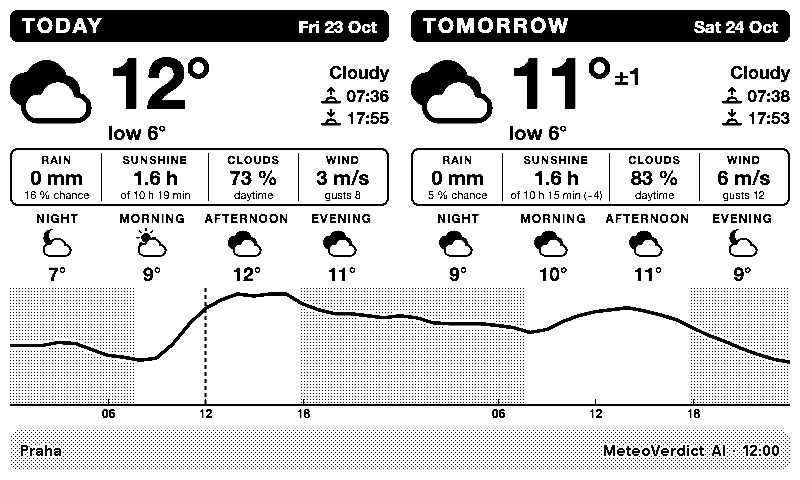
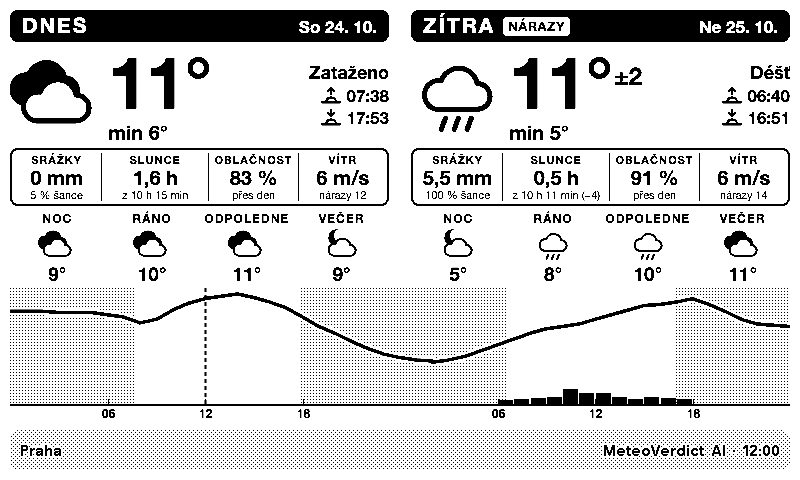
Screenshots: 48 hours (English) in place of 24 hours, today and tomorrow in Czech

diff --git a/README.md b/README.md
@@ -5,7 +5,7 @@ Weather for your Czech district on a [TRMNL](https://trmnl.com) e-ink display: t
 its timing and chance, sunshine, clouds, wind and gusts, pressure, humidity, sunrise and
 sunset, and badges for frost, rain and gusts. In English or Czech.
 
-![The next 24 hours in Prague](screenshots/next-24-hours.png)
+![The next 48 hours in Prague](screenshots/next-24-hours.png)
 
 The forecast is [MeteoVerdict](https://meteoverdict.cz/)'s. Every day,
 MeteoVerdict checks how well about 20 weather models forecast what ČHMÚ stations then
@@ -21,7 +21,7 @@ A weather display gets a glance on your way out. Pick the view in the plugin's s
 
 ### Next 24 hours, and next 48 hours
 
-![The next 24 hours in Prague](screenshots/next-24-hours.png)
+![The next 48 hours in Prague](screenshots/next-24-hours.png)
 
 For "what will it do, and when?" The window starts now (the head says which days it spans:
 *Friday 23 October → Saturday 24 October*):
@@ -36,7 +36,7 @@ For "what will it do, and when?" The window starts now (the head says which days
 
 ### Today and tomorrow
 
-![Today and tomorrow in Prague](screenshots/today-tomorrow.png)
+![Today and tomorrow in Prague, in Czech](screenshots/today-tomorrow.png)
 
 Two days side by side. For each:
 - the symbol, high and low (tomorrow's high with its ±, half of the 80 % range of the
@@ -64,7 +64,7 @@ For planning the week:
 
 ### TRMNL X
 
-![The next 24 hours on TRMNL X](screenshots/next-24-hours-trmnl-x.png)
+![The next 48 hours on TRMNL X](screenshots/next-24-hours-trmnl-x.png)
 
 The same markup works on the original TRMNL (800 × 480) and on TRMNL X (1872 × 1404):
 the content scales to the width of the screen, and on the taller X the hourly charts grow
